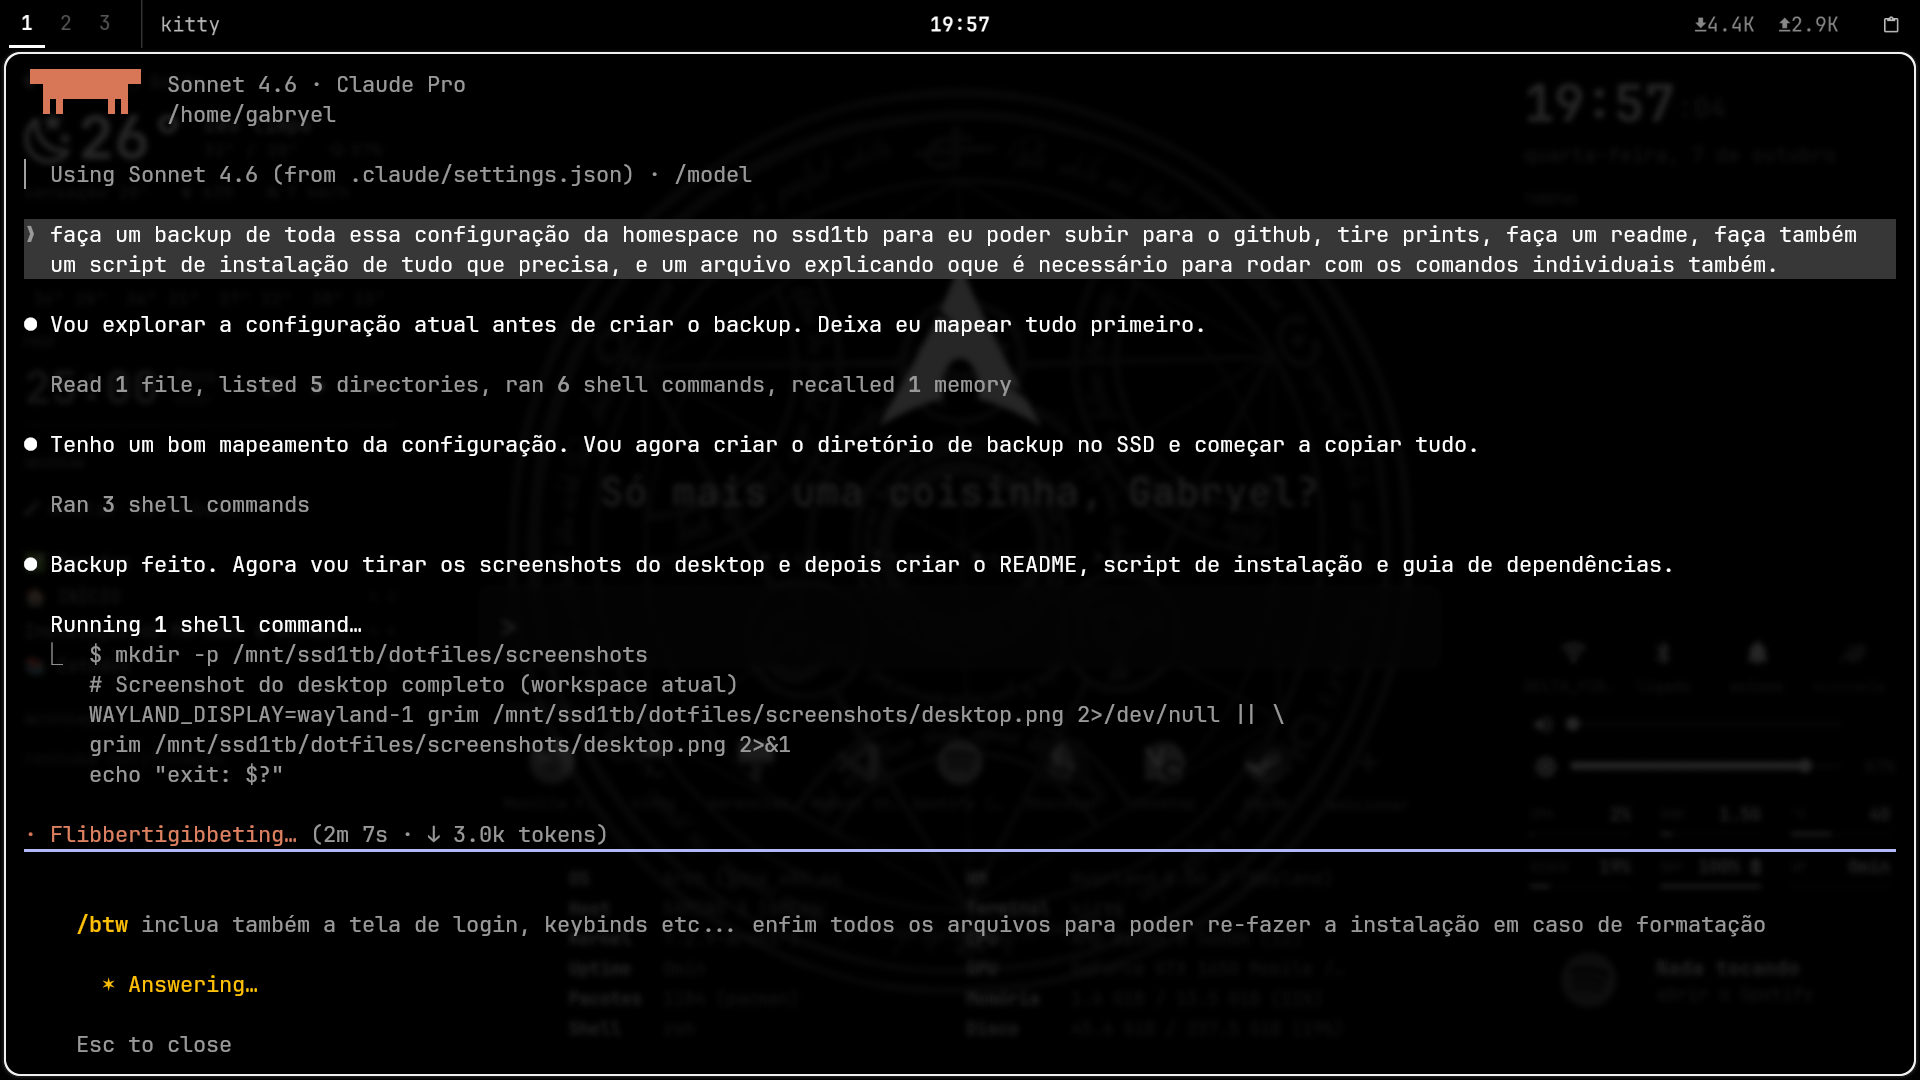
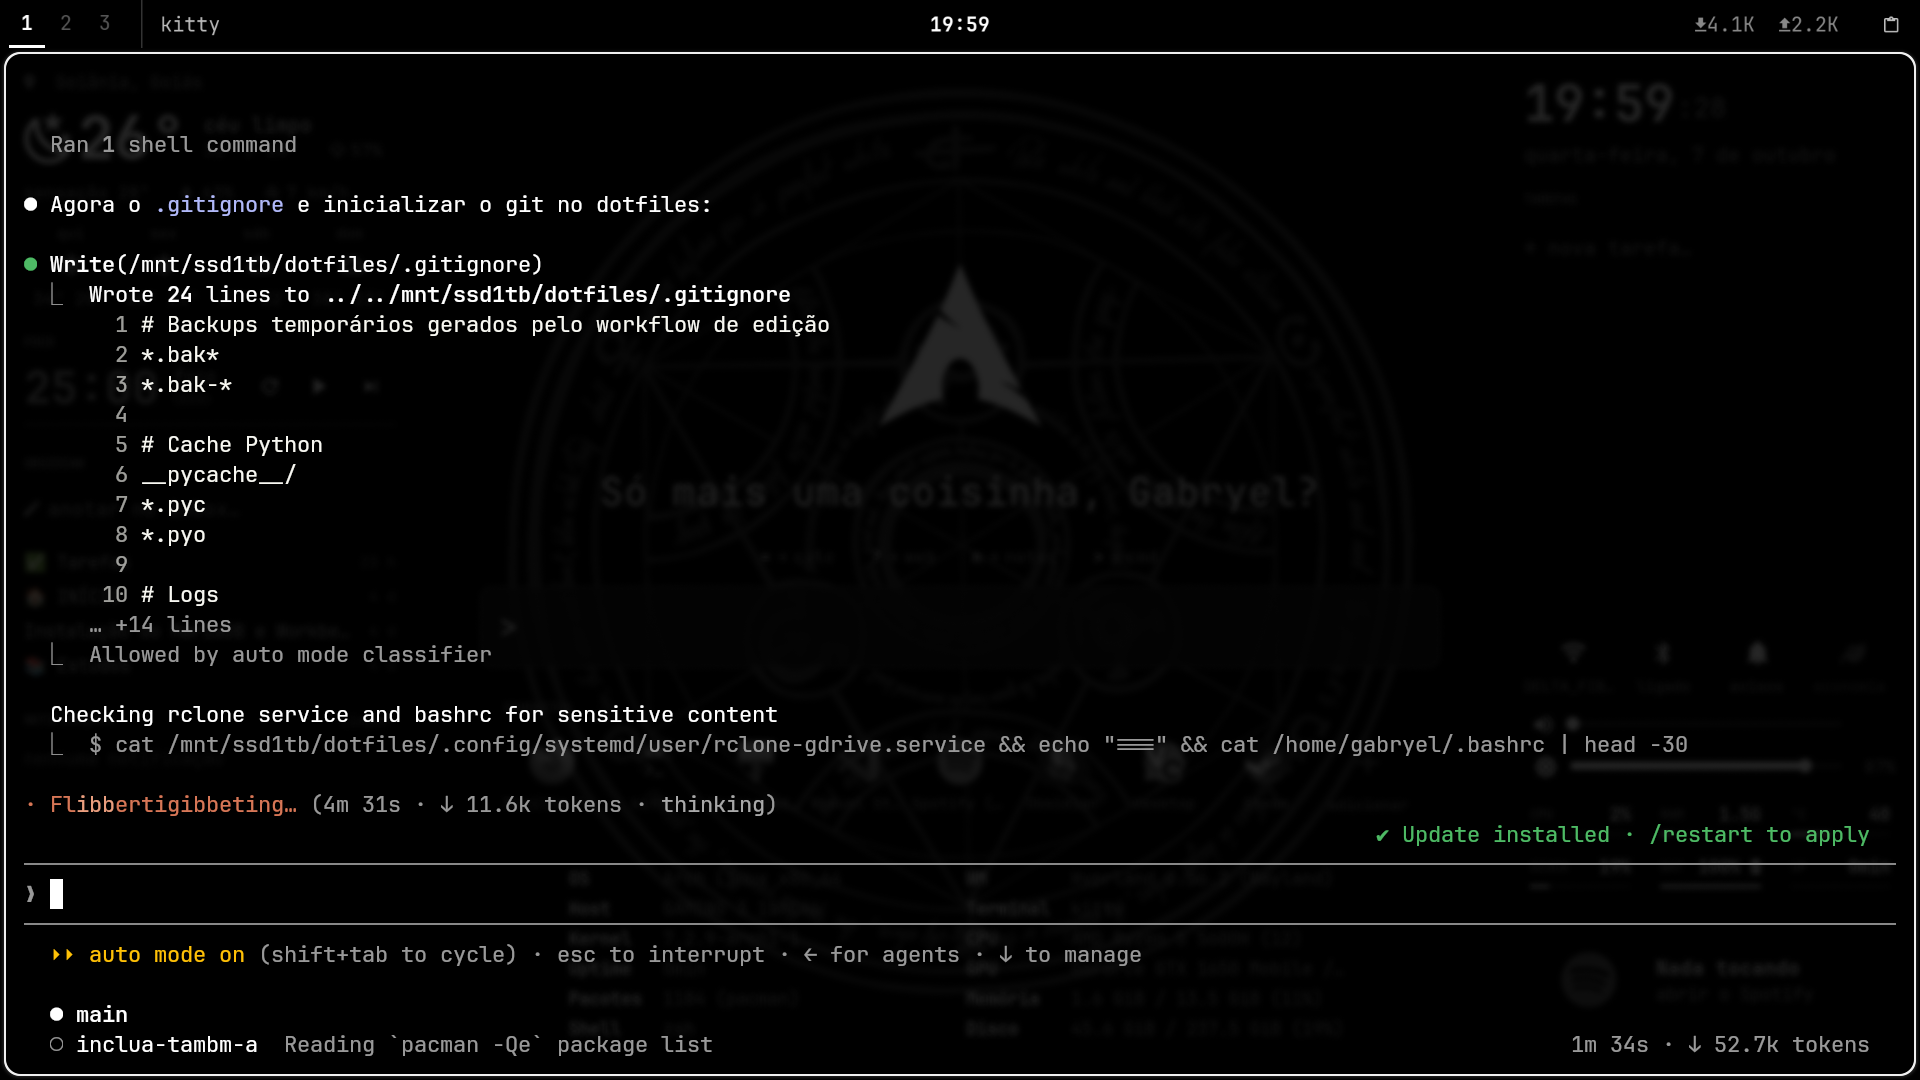
subindo primeiro commit

diff --git a/INSTALL.md b/INSTALL.md
@@ -270,11 +270,134 @@ sudo pacman -S adwaita-icon-theme
 
 ---
 
+## 15. Shell — zsh
+
+```bash
+# Instalar zsh e plugins
+sudo pacman -S zsh zsh-autosuggestions zsh-syntax-highlighting
+
+# Definir como shell padrão
+chsh -s $(which zsh)
+
+# Copiar configs
+cp .zshrc ~/.zshrc
+cp .bashrc ~/.bashrc
+cp .bash_profile ~/.bash_profile
+```
+
+---
+
+## 16. Temas Qt (Kvantum, qt5ct, qt6ct)
+
+```bash
+sudo pacman -S kvantum qt5ct qt6ct
+
+cp -r .config/Kvantum/ ~/.config/
+cp -r .config/qt5ct/   ~/.config/
+cp -r .config/qt6ct/   ~/.config/
+```
+
+> Configura a aparência de apps Qt para usar o estilo Fusion com paleta preto e branco.
+
+---
+
+## 17. Associações de arquivos e pastas XDG
+
+```bash
+cp .config/mimeapps.list    ~/.config/
+cp .config/user-dirs.dirs   ~/.config/
+cp .config/user-dirs.locale ~/.config/
+
+# Criar as pastas esperadas
+xdg-user-dirs-update
+mkdir -p ~/Imagens/Screenshots
+```
+
+---
+
+## 18. Scripts locais (~/.local/bin)
+
+```bash
+mkdir -p ~/.local/bin
+cp -r .local/bin/ ~/.local/
+chmod +x ~/.local/bin/*
+```
+
+Scripts incluídos:
+- `rclone-sync-drives-compartilhados` — sincroniza lista de Google Drives compartilhados
+- `dbus-watch.sh` — monitora fds do dbus-broker (diagnóstico)
+
+---
+
+## 19. Serviços systemd do usuário (rclone)
+
+```bash
+mkdir -p ~/.config/systemd/user/dbus-broker.service.d
+cp -r .config/systemd/ ~/.config/
+systemctl --user daemon-reload
+
+# Aumento do limite de file descriptors do dbus (evita crash por "Too many open files")
+# (já incluído em .config/systemd/user/dbus-broker.service.d/limits.conf)
+
+# Habilitar serviços rclone
+systemctl --user enable rclone-gdrive.service
+systemctl --user enable rclone-drives-compartilhados.service
+systemctl --user enable rclone-sync-drives-compartilhados.timer
+```
+
+> **Atenção:** Os serviços rclone só funcionam após configurar o remote `gdrive`. Veja seção 20.
+
+---
+
+## 20. Configurar rclone (Google Drive)
+
+```bash
+# Instalar rclone
+sudo pacman -S rclone fuse3
+
+# Criar remotes interativamente
+rclone config
+# → Criar remote chamado 'gdrive' do tipo 'drive' (Google Drive)
+# → Autenticar via OAuth no navegador
+
+# Testar montagem manual
+rclone mount gdrive: ~/GoogleDrive --vfs-cache-mode full &
+
+# Após autenticado, iniciar serviços automáticos
+systemctl --user start rclone-gdrive.service
+
+# Sincronizar lista de drives compartilhados
+~/.local/bin/rclone-sync-drives-compartilhados
+systemctl --user start rclone-drives-compartilhados.service
+```
+
+---
+
+## 21. Autostart (nm-applet)
+
+```bash
+cp -r .config/autostart/ ~/.config/
+# nm-applet inicia automaticamente via Hyprland e aparece na bandeja do waybar
+```
+
+---
+
 ## Ordem recomendada após instalação limpa
 
-1. Instalar pacotes (seções 2–3)
-2. Ativar serviços (seção 4)
-3. Copiar dotfiles (seções 5–7)
-4. Ajustar caminhos (seção 9)
-5. Testar componentes individualmente (seção 11)
-6. Reiniciar → logar via SDDM → Hyprland inicia automaticamente
+1. Instalar pacotes oficiais (seção 2)
+2. Instalar AUR + helper (seção 3)
+3. Instalar zsh e definir como shell padrão (seção 15)
+4. Ativar serviços do sistema (seção 4)
+5. Configurar tema do SDDM (seção 5)
+6. Copiar dotfiles principais (seção 6)
+7. Copiar Qt/Kvantum (seção 16)
+8. Copiar shell configs (seção 15)
+9. Copiar mimeapps e user-dirs (seção 17)
+10. Copiar local bin scripts (seção 18)
+11. Copiar serviços systemd (seção 19)
+12. Tornar scripts executáveis (seção 7)
+13. Ajustar caminhos para seu usuário (seção 9)
+14. Configurar rclone (seção 20) — opcional, para Google Drive
+15. Criar Obsidian Vault mínimo (seção 13)
+16. Testar componentes individualmente (seção 11)
+17. Reiniciar → logar via SDDM → Hyprland inicia automaticamente

diff --git a/README.md b/README.md
@@ -69,8 +69,25 @@
 │   └── theme.rasi
 └── fastfetch/
     └── config.jsonc
+.config/
+├── Kvantum/kvantum.kvconfig  # tema Qt (KvGnomeDark)
+├── qt5ct/qt5ct.conf          # aparência Qt5 (Fusion + paleta B&W)
+├── qt6ct/qt6ct.conf          # aparência Qt6
+├── autostart/                # nm-applet
+├── mimeapps.list             # associações de arquivos
+├── user-dirs.dirs            # pastas XDG em português
+└── systemd/user/
+    ├── rclone-gdrive.service
+    ├── rclone-drives-compartilhados.service
+    ├── rclone-sync-drives-compartilhados.{service,timer}
+    └── dbus-broker.service.d/limits.conf   # fix "too many open files"
+.local/bin/
+├── rclone-sync-drives-compartilhados       # sincroniza drives compartilhados
+└── dbus-watch.sh                           # diagnóstico de fds dbus
 sddm/
 └── theme.conf                # tema do login manager (blackarch)
+.zshrc / .bashrc / .bash_profile           # shell configs
+pkg-explicit.txt / pkg-aur.txt             # lista de pacotes para reinstalação
 ```
 
 ## Atalhos de teclado principais
